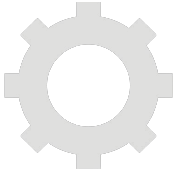
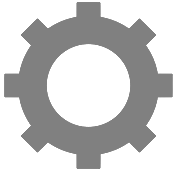
Corrigido botoes flutuantes

diff --git a/encarte/css/style.css b/encarte/css/style.css
@@ -52,7 +52,7 @@ header {
     padding: 5px;
 }
 
-/*  botoes mapa e whatsapp  
+/*  botoes mapa e whatsapp antigos  
 #mapa {
     position: fixed;
     right: -14px;
@@ -88,21 +88,21 @@ header {
 #menuFlutuante {
     position: fixed;
     right: 5px;
-    bottom: 5px;
+    bottom: 7px;
     padding: 3px;
     width: 145px;
     border-radius: 22px;
-    background-color: rgba(53, 53, 53, 0.205);
+    background-color: rgba(255, 255, 255, 0.678);
     box-shadow: 1px 1px 2px rgba(0, 0, 0, 0.219);
 } #menuFlutuante img {
     width: 40px;
     height: 39px;
-    padding: 3px;
+    padding: 8px;
     margin-left: 2px;
     border-radius: 12px;
     background-color: #40054711;
 } #menuFlutuante img:hover {
-    background-color: #4005471a;
+    background-color: #a751e03d;
     transition-duration: .2s;
 }
 
@@ -144,22 +144,19 @@ main {
 
     #menuFlutuante {
         display: block;
-        left: 98px;
-        bottom: 5px;
+        left: 100px;
         padding: 3px;
         width: 180px;
-        border-radius: 22px;
-        background-color: rgba(233, 233, 233, 0.212);
-        box-shadow: 1px 1px 2px rgba(0, 0, 0, 0.219);
+        background-color: rgba(255, 255, 255, 0.747);
     }
 
     #menuFlutuante img {
         width: 50px;
         height: 49px;
-        padding: 3px;
         margin-left: 4px;
         border-radius: 12px;
         background-color: #40054711;
+    }
 }
 
 section#produtos {
@@ -170,7 +167,7 @@ section#produtos {
 
 .itemEncarte {
     width: 140px;
-    height: 140px;
+    height: 130px;
     margin: 15px;
     margin-bottom: 65px;
     padding: 5px;
@@ -181,7 +178,7 @@ section#produtos {
 }
 
 .nomeProduto {
-    font-weight: 1.1em;
+    font-size: 1.1em;
     margin-bottom: 2px;
 }
 

diff --git a/encarte/index.html b/encarte/index.html
@@ -44,14 +44,13 @@
                 <a class="nav-link" href="#">Mix Matheus</a>
             </li>
             <li class="nav-item dropdown">
-                <a class="nav-link dropdown-toggle" href="#" id="navbarDropdown" role="button" data-toggle="dropdown" aria-haspopup="true" aria-expanded="false">
-                Mais
+                <a class="nav-link dropdown-toggle" href="#" id="navbarDropdown" role="button" data-toggle="dropdown" aria-haspopup="true" aria-expanded="false"> Mais
                 </a>
                 <div class="dropdown-menu" aria-labelledby="navbarDropdown">
                     <a class="dropdown-item" href="#">Faé</a>
                     <a class="dropdown-item" href="#">São Lucas</a>
                     <div class="dropdown-divider"></div>
-                    <a class="dropdown-item" href="#">Configs</a>
+                    <a class="dropdown-item" href="#">Config</a>
                 </div>
             </li>
             </ul>
@@ -192,7 +191,6 @@
                     <p class="nomeProduto">NOME PRODUTO</p>
                     <p class="precoProduto">PREÇO</p>
                 </div>
-               
                
             </section>
         </section>
